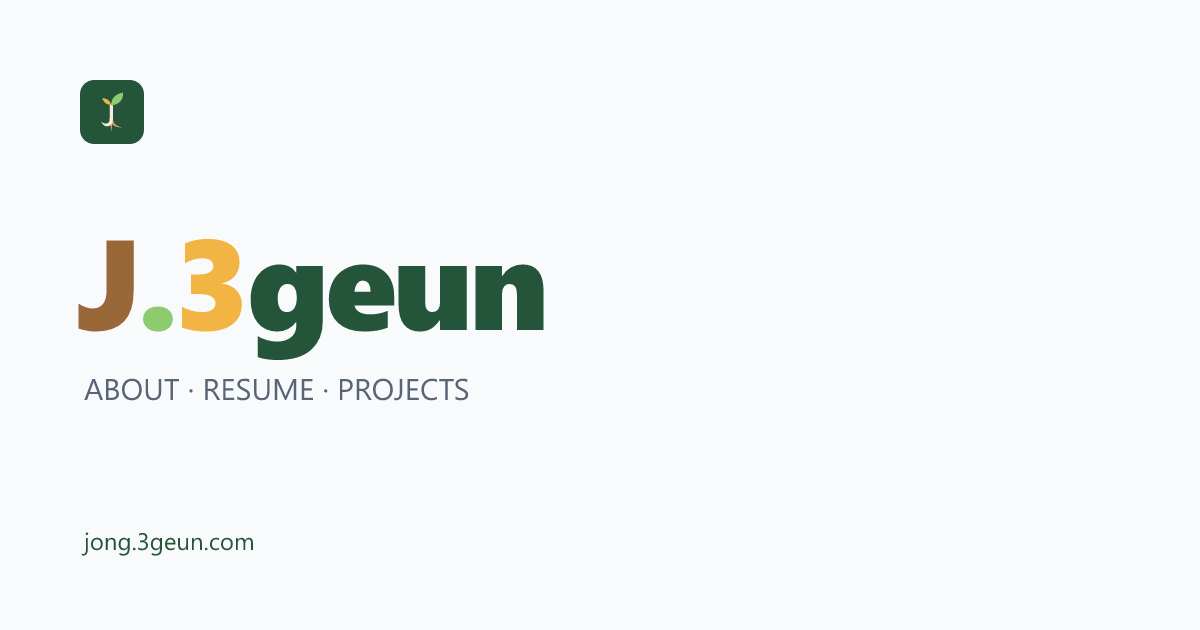
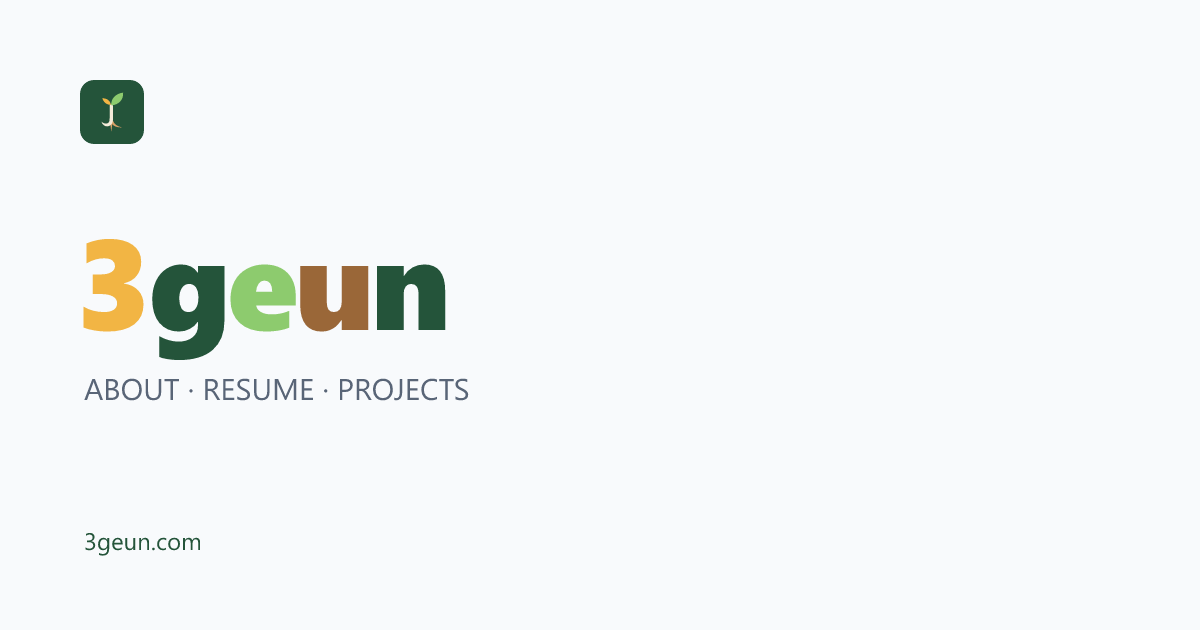
feat: rebrand to a four-color 3geun wordmark on the 3geun.com domain
- Wordmark, page titles and preview text use "3geun" in the four brand colors
- Site URL, canonical, OG, sitemap, QR and demo links move to https://3geun.com
- Re-render og-image.png with the new wordmark and domain

Changed region(s): [[0.0617, 0.3619, 0.4625, 0.573], [0.0617, 0.8444, 0.2158, 0.8746]]

diff --git a/src/test/App.test.tsx b/src/test/App.test.tsx
@@ -56,8 +56,8 @@ const publishedCertifications = [...resume.certifications]
 describe('빈 콘텐츠와 라우팅', () => {
   it('프로필과 사진을 렌더링하고 비어 있는 링크를 숨긴다', () => {
     visit()
-    expect(screen.getByRole('heading', { level: 1, name: 'J.3geun' })).toBeInTheDocument()
-    expect(document.title).toBe('J.3geun')
+    expect(screen.getByRole('heading', { level: 1, name: '3geun' })).toBeInTheDocument()
+    expect(document.title).toBe('3geun')
     expect(screen.getByRole('heading', { name: '이종근' })).toBeInTheDocument()
     expect(screen.getByRole('img', { name: '이종근 프로필 사진' })).toHaveAttribute(
       'src',
@@ -128,9 +128,9 @@ describe('QR 코드', () => {
     visit('/resume')
     await userEvent.click(screen.getByRole('button', { name: '주소 QR 코드 보기' }))
     const dialog = screen.getByRole('dialog', { name: '페이지 주소 QR 코드' })
-    expect(within(dialog).getByText('jong.3geun.com/resume')).toBeInTheDocument()
+    expect(within(dialog).getByText('3geun.com/resume')).toBeInTheDocument()
     expect(
-      await within(dialog).findByRole('img', { name: 'https://jong.3geun.com/resume QR 코드' }),
+      await within(dialog).findByRole('img', { name: 'https://3geun.com/resume QR 코드' }),
     ).toBeInTheDocument()
     await userEvent.keyboard('{Escape}')
     expect(screen.queryByRole('dialog')).not.toBeInTheDocument()
@@ -164,7 +164,7 @@ describe('콘텐츠 데이터 연동', () => {
     const medilens = projects.find((item) => item.slug === 'medilens')!
     const original = medilens.personalDemo
     medilens.personalDemo = {
-      url: 'https://jong.3geun.com/medilens-demo/',
+      url: 'https://3geun.com/medilens-demo/',
       description: '팀 서비스와 분리한 개인 재구현 데모',
     }
     try {
@@ -173,7 +173,7 @@ describe('콘텐츠 데이터 연동', () => {
       expect(within(section).getByText('개인 재구현')).toBeInTheDocument()
       expect(within(section).getByRole('link', { name: /체험 데모 열기/ })).toHaveAttribute(
         'href',
-        'https://jong.3geun.com/medilens-demo/',
+        'https://3geun.com/medilens-demo/',
       )
     } finally {
       medilens.personalDemo = original

diff --git a/index.html b/index.html
@@ -4,19 +4,19 @@
     <meta charset="UTF-8" />
     <meta name="viewport" content="width=device-width, initial-scale=1.0" />
     <meta name="theme-color" content="#f8fafc" />
-    <title>J.3geun</title>
+    <title>3geun</title>
     <meta name="description" content="안녕하세요 이종근입니다" />
-    <meta property="og:title" content="J.3geun" />
+    <meta property="og:title" content="3geun" />
     <meta property="og:description" content="안녕하세요 이종근입니다" />
     <meta property="og:type" content="website" />
     <meta property="og:locale" content="ko_KR" />
-    <meta property="og:url" content="https://jong.3geun.com/" />
-    <meta property="og:image" content="https://jong.3geun.com/og-image.png" />
+    <meta property="og:url" content="https://3geun.com/" />
+    <meta property="og:image" content="https://3geun.com/og-image.png" />
     <meta property="og:image:type" content="image/png" />
     <meta property="og:image:width" content="1200" />
     <meta property="og:image:height" content="630" />
-    <meta property="og:image:alt" content="J.3geun" />
-    <link rel="canonical" href="https://jong.3geun.com/" />
+    <meta property="og:image:alt" content="3geun" />
+    <link rel="canonical" href="https://3geun.com/" />
     <link rel="icon" href="/favicon.ico" sizes="any" />
     <link rel="icon" type="image/svg+xml" href="/favicon.svg" />
     <link rel="apple-touch-icon" href="/apple-touch-icon.png" />

diff --git a/src/styles/index.css b/src/styles/index.css
@@ -20,7 +20,7 @@
   --muted: #5e6a61;
   --subtle: #5b665e;
   --line: #e4e7df;
-  /* J.3geun 워드마크 색: 진한 초록(주색) · 갈색 · 연두 · 앰버 */
+  /* 3geun 워드마크 색: 진한 초록(주색) · 갈색 · 연두 · 앰버 */
   --accent: #24543a;
   --accent-hover: #1a3f2b;
   --accent-soft: #e8f1e2;
@@ -327,17 +327,17 @@ section[id] {
   font-size: inherit;
   color: var(--text);
 }
-.hero h1.hero-wordmark > .wm-j {
-  color: var(--brown);
-}
-.hero h1.hero-wordmark > .wm-period {
-  color: var(--leaf);
-}
-.hero h1.hero-wordmark > .wm-3 {
+.hero h1.hero-wordmark > .wm-amber {
   color: var(--amber);
 }
-.hero h1.hero-wordmark > .wm-geun {
+.hero h1.hero-wordmark > .wm-green {
   color: var(--accent);
+}
+.hero h1.hero-wordmark > .wm-leaf {
+  color: var(--leaf);
+}
+.hero h1.hero-wordmark > .wm-brown {
+  color: var(--brown);
 }
 .hero-tagline {
   margin-top: 14px;

diff --git a/src/data/projects.ts b/src/data/projects.ts
@@ -14,7 +14,7 @@ export const projects: Project[] = [
     featured: true,
     demoAccess: { url: 'https://mymedilens.com/', username: 'testUser', password: 'password' },
     personalDemo: {
-      url: 'https://jong.3geun.com/medilens-demo/',
+      url: 'https://3geun.com/medilens-demo/',
       description:
         '팀 서비스·DB와 분리해 약봉투 인식과 복약 일정 흐름을 개인적으로 다시 구현한 데모입니다.',
     },
@@ -251,7 +251,7 @@ export const projects: Project[] = [
       alt: 'Bing 사진 미리보기와 해상도 선택, JPG 다운로드 버튼이 있는 배경화면 다운로더 화면',
       caption: 'Bing 배경화면 미리보기와 JPG 다운로드',
     },
-    demoUrl: 'https://jong.3geun.com/bing-wallpaper/',
+    demoUrl: 'https://3geun.com/bing-wallpaper/',
     features: [
       {
         title: '사진 찾기',

diff --git a/src/pages/HomePage.tsx b/src/pages/HomePage.tsx
@@ -20,11 +20,12 @@ export function HomePage() {
   return (
     <div className="container home-page">
       <section className="hero" aria-labelledby="hero-title">
-        <h1 id="hero-title" className="hero-wordmark" aria-label="J.3geun">
-          <span className="wm-j">J</span>
-          <span className="wm-period">.</span>
-          <span className="wm-3">3</span>
-          <span className="wm-geun">geun</span>
+        <h1 id="hero-title" className="hero-wordmark" aria-label="3geun">
+          <span className="wm-amber">3</span>
+          <span className="wm-green">g</span>
+          <span className="wm-leaf">e</span>
+          <span className="wm-brown">u</span>
+          <span className="wm-green">n</span>
         </h1>
         <p className="hero-tagline">ABOUT · RESUME · PROJECTS</p>
         <p className="hero-story">

diff --git a/src/app/metadata.ts b/src/app/metadata.ts
@@ -1,7 +1,7 @@
 import { projects } from '../data/projects'
 
-export const siteUrl = 'https://jong.3geun.com'
-export const siteName = 'J.3geun'
+export const siteUrl = 'https://3geun.com'
+export const siteName = '3geun'
 export function getMetadata(rawPath: string) {
   const path = rawPath.replace(/\/+$/, '') || '/'
   const project = projects.find((item) => path === `/projects/${item.slug}`)

diff --git a/README.md b/README.md
@@ -1,16 +1,16 @@
 # 개발자 포트폴리오
 
-`https://jong.3geun.com`에서 제공할 한국어 개인 개발자 포트폴리오입니다. 자기소개와 이력서 요약, 전체 이력서, 프로젝트 목록·상세 페이지를 제공합니다. 실제 개인 콘텐츠는 비어 있으며 임의의 경력·기술·연락처·프로젝트를 넣지 않았습니다. `Backend Developer`는 직무 UI 기본값입니다.
+`https://3geun.com`에서 제공할 한국어 개인 개발자 포트폴리오입니다. 자기소개와 이력서 요약, 전체 이력서, 프로젝트 목록·상세 페이지를 제공합니다. 실제 개인 콘텐츠는 비어 있으며 임의의 경력·기술·연락처·프로젝트를 넣지 않았습니다. `Backend Developer`는 직무 UI 기본값입니다.
 
 React 19, TypeScript 6, Vite 8, Tailwind CSS 4, React Router 7, Lucide React를 사용합니다. 테스트는 Vitest·React Testing Library, 운영은 Nginx 정적 파일 + Docker Compose입니다. 설치 버전은 `package.json`에 고정하고 `package-lock.json`으로 재현합니다. Node.js 22.12 이상이 필요합니다. Node 요구사항과 Tailwind 설정은 [Vite 공식 문서](https://vite.dev/guide/)와 [Tailwind 공식 문서](https://tailwindcss.com/docs/installation/using-vite)를 확인했습니다.
 
 ## 아키텍처
 
-`jong.3geun.com` 한 도메인 아래에서 세 개의 독립 앱이 경로별로 서비스됩니다. 각 앱은 별도 저장소·별도 Docker Compose 프로젝트로 관리하며, 호스트 Nginx가 기존 HTTPS 인증서로 TLS를 종료한 뒤 경로에 따라 루프백 포트로 전달합니다.
+`3geun.com` 한 도메인 아래에서 세 개의 독립 앱이 경로별로 서비스됩니다. 각 앱은 별도 저장소·별도 Docker Compose 프로젝트로 관리하며, 호스트 Nginx가 기존 HTTPS 인증서로 TLS를 종료한 뒤 경로에 따라 루프백 포트로 전달합니다.
 
 ```mermaid
 flowchart LR
-    U["방문자 브라우저"] -->|HTTPS| N["호스트 Nginx<br/>jong.3geun.com"]
+    U["방문자 브라우저"] -->|HTTPS| N["호스트 Nginx<br/>3geun.com"]
     N -->|"/"| P["포트폴리오 (이 저장소)<br/>Nginx 정적 파일<br/>127.0.0.1:18080"]
     N -->|"/bing-wallpaper/"| W["월페이퍼 스튜디오<br/>Node 프록시 서버<br/>127.0.0.1:14179"]
     N -->|"/medilens-demo/"| M["MediLens 체험 데모<br/>Nginx 정적 파일<br/>127.0.0.1:18090"]
